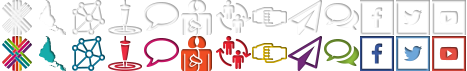
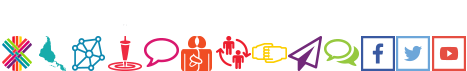
menu izquierdo icono acidional

diff --git a/themes/telartes/css/telartes.css b/themes/telartes/css/telartes.css
@@ -11047,7 +11047,6 @@ li:hover > .menu {
 	color:#460f35;
 	text-shadow:1px 1px 0 #a21152;
 }
-
 #block-menu-menu-menu-left .content .menu .formacion { background-position:-179px 0;}
 #block-menu-menu-menu-left .content .menu .formacion:hover { background-position:-179px -35px;}
 #block-menu-menu-menu-left .content .menu .formacion span{
@@ -11055,43 +11054,51 @@ li:hover > .menu {
 	color:#460f35;
 	text-shadow:1px 1px 0 #eb4b22;
 }
-#block-menu-menu-menu-left .content .menu .economia { background-position:-215px 0;}
-#block-menu-menu-menu-left .content .menu .economia:hover { background-position:-215px -35px;}
+
+#block-menu-menu-menu-left .content .menu .circulacion { background-position:-215px 0;}
+#block-menu-menu-menu-left .content .menu .circulacion:hover { background-position:-215px -35px;}
+#block-menu-menu-menu-left .content .menu .circulacion span{
+	background-color:#eb4b22;
+	color:#460f35;
+	text-shadow:1px 1px 0 #eb4b22;
+}
+#block-menu-menu-menu-left .content .menu .economia { background-position:-251px 0;}
+#block-menu-menu-menu-left .content .menu .economia:hover { background-position:-251px -35px;}
 #block-menu-menu-menu-left .content .menu .economia span{
 	background-color:#e31d2c;
 	color:#460f35;
 	text-shadow:1px 1px 0 #d244a6;
 }
-#block-menu-menu-menu-left .content .menu .boletin { background-position:-251px 0;}
-#block-menu-menu-menu-left .content .menu .boletin:hover { background-position:-251px -35px;}
+#block-menu-menu-menu-left .content .menu .boletin { background-position:-287px 0;}
+#block-menu-menu-menu-left .content .menu .boletin:hover { background-position:-287px -35px;}
 #block-menu-menu-menu-left .content .menu .boletin span{
 	background-color:#bea229;
 	color:#460f35;
 	text-shadow:1px 1px 0 #d244a6;
 }
-#block-menu-menu-menu-left .content .menu .foro { background-position:-287px 0;}
-#block-menu-menu-menu-left .content .menu .foro:hover { background-position:-287px -35px;}
+#block-menu-menu-menu-left .content .menu .foro { background-position:-323px 0;}
+#block-menu-menu-menu-left .content .menu .foro:hover { background-position:-323px -35px;}
 #block-menu-menu-menu-left .content .menu .foro span{
 	background-color:#af1e83;
 	color:#460f35;
 	text-shadow:1px 1px 0 #d244a6;
 }
-#block-menu-menu-menu-left .content .menu .twitter { background-position:-323px 0;}
-#block-menu-menu-menu-left .content .menu .twitter:hover { background-position:-323px -35px;}
+#block-menu-menu-menu-left .content .menu .twitter { background-position:-359px 0;}
+#block-menu-menu-menu-left .content .menu .twitter:hover { background-position:-359px -35px;}
 #block-menu-menu-menu-left .content .menu .twitter span{
 	background-color:#af1e83;
 	color:#460f35;
 	text-shadow:1px 1px 0 #d244a6;
 }
-#block-menu-menu-menu-left .content .menu .facebook { background-position:-359px 0;}
-#block-menu-menu-menu-left .content .menu .facebook:hover { background-position:-359px -35px;}
+#block-menu-menu-menu-left .content .menu .facebook { background-position:-395px 0;}
+#block-menu-menu-menu-left .content .menu .facebook:hover { background-position:-395px -35px;}
 #block-menu-menu-menu-left .content .menu .facebook span{
 	background-color:#af1e83;
 	color:#460f35;
 	text-shadow:1px 1px 0 #d244a6;
 }
-#block-menu-menu-menu-left .content .menu .youtube { background-position:-395px 0;}
-#block-menu-menu-menu-left .content .menu .youtube:hover { background-position:-395px -35px;}
+#block-menu-menu-menu-left .content .menu .youtube { background-position:-431px 0;}
+#block-menu-menu-menu-left .content .menu .youtube:hover { background-position:-431px -35px;}
 #block-menu-menu-menu-left .content .menu .youtube span{
 	background-color:#af1e83;
 	color:#460f35;
